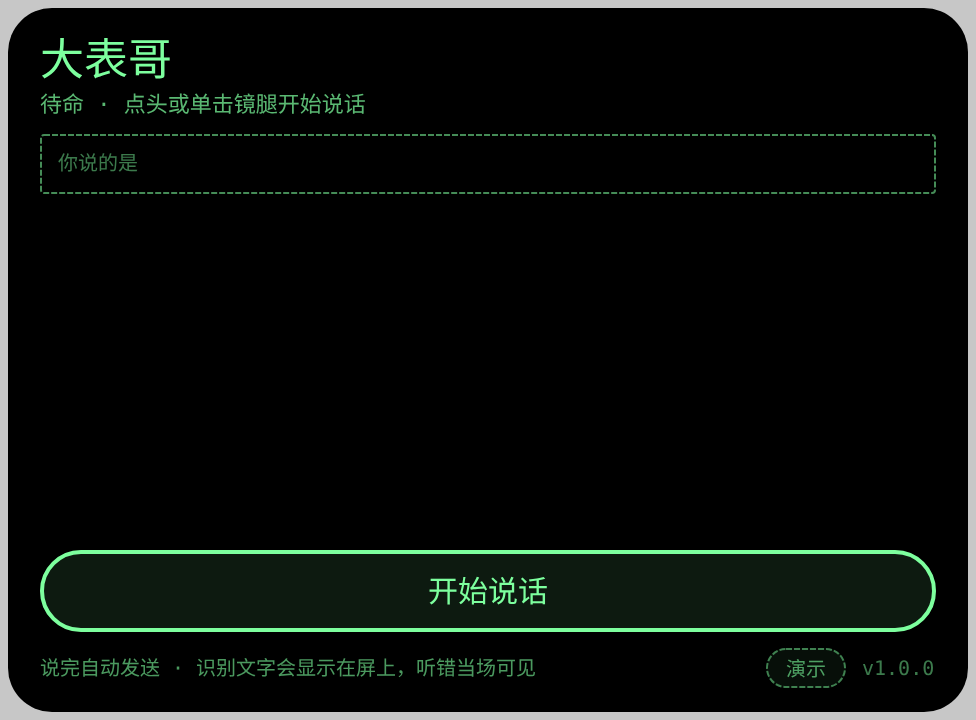
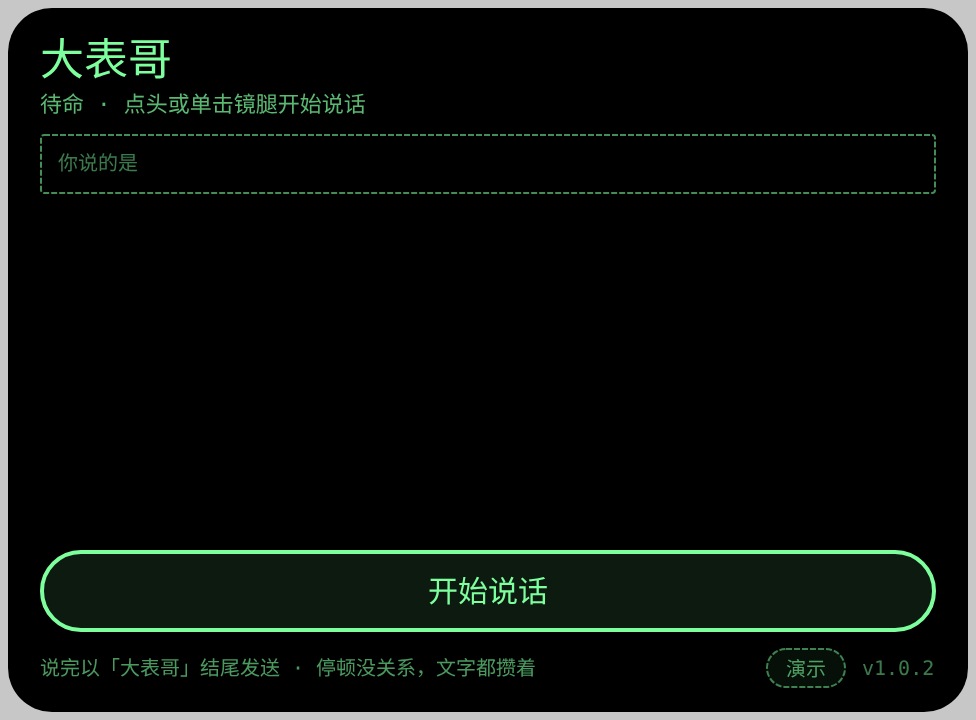
dabiaoge v1.0.2：攒字+结束词发送（说完以「大表哥」结尾，停顿不截断，单击立即发送）+ 等待上限 150→300 秒（配合哨兵延迟调优）

Changed region(s): [[0.0922, 0.9167, 0.5533, 0.9472]]

diff --git a/base/dabiaoge/README.md b/base/dabiaoge/README.md
@@ -33,12 +33,12 @@ https://github.com/sakai55/rokid/tree/agent-dabiaoge
 | 项目 | 值 |
 |---|---|
 | Agent Name（Studio） | 待导入后回填（导入名默认为仓库名，Studio 内改「大表哥」） |
-| Version（Build） | 待回填（本地 package.json 1.0.0） |
+| Version（Build） | 待回填（本地 package.json 1.0.2） |
 | App Category | 待回填（建议 Work） |
 | Intent Description | 待回填 |
 | Agent ID | 待回填 |
 | AIX Package Size | 约 13 KB（本地 pack；Studio 打包值待回填） |
-| 状态 | 本地已打包 · 待 GO 在 Studio 导入、填钥匙并真机运行 |
+| 状态 | v1.0.0 已真机全链跑通（2026-10-26）；v1.0.2 待 GO 在 Studio 重新导入、填钥匙并打包 |
 | Studio | aiui-global.rokid.com（en-US） |
 | 下发方式 | 云端下发 → Hi Rokid（海外版）更新眼镜资源包 |
 
@@ -46,9 +46,9 @@ https://github.com/sakai55/rokid/tree/agent-dabiaoge
 
 | 步 | 发生什么 |
 |---|---|
-| 说话 | 点头 / 单击开始 → 宿主 ASR 识别，文字实时上屏 → 最终文字自动投单 |
+| 说话 | 点头 / 单击开始 → 宿主 ASR 识别，文字分段攒起来实时上屏（停顿不截断）→ 以「大表哥」结尾、或单击立即发送，结束词剥掉不进正文 |
 | 投单 | POST 前门 `/submit`（`{session, kind:"ask", text}`，session 本地持久化） |
-| 等待 | 每 4 秒查一次单，总超时 150 秒；状态行显示已排队 / Muse 正在处理 |
+| 等待 | 每 4 秒查一次单，总超时 300 秒（v1.0.2 起，原 150 秒）；状态行显示已排队 / Muse 正在处理 |
 | 结果 | 信封按 type 渲染：text（标题+正文）、list（+逐行条目）、choices（只展示）、card（标题+正文）；speak 与正文不同时朗读 speak |
 | 批准 | 回单 needs-approval 时显示「这件事要你在手机上批准，已挂起」，眼镜侧对话当场结束，批准在 Muse App 里做 |
 | 补收 | ticket 存本地；关掉眼镜不丢单，下次打开先查未完成单，办完的直接显示 |
@@ -57,7 +57,7 @@ https://github.com/sakai55/rokid/tree/agent-dabiaoge
 
 | 手势 | 键事件 | 作用 |
 |---|---|---|
-| 单击 | Enter / GlobalHook | 开始说话；说话中单击 = 说完了；结果页单击 = 再问一句（400ms 去重） |
+| 单击 | Enter / GlobalHook | 开始说话；说话中单击 = 立即发送已攒文字；结果页单击 = 再问一句（400ms 去重） |
 | 点头 | onHeadGesture 'nod' | 与单击同效；处理中忽略 |
 | 滑动 | ArrowUp / ArrowDown | 本页未占用 |
 | 双击 | Backspace | 交给系统：返回 / 退出（页面不拦截） |
@@ -81,11 +81,12 @@ https://github.com/sakai55/rokid/tree/agent-dabiaoge
 
 - [ ] **真机网络链**：填钥匙打包并下发后，眼镜上说一句提问，Muse 侧 `/feed` 立刻出现该单（眼镜 → 手机代理 → 前门全链通）
 - [ ] **ASR 文字显示**：识别文字实时出现在「你说的是」框里，听错可见
+- [ ] **结束词发送**（v1.0.2 新增）：说话中途停顿多次不截断、不投单；最后说「大表哥」才投单且正文不含结束词；只说「大表哥」时不投单并提示先说事；说话中单击可立即发送已攒文字
 - [ ] **信封四态显示**：text / list / choices / card 四种回单各显示一次，版式正确不溢出
 - [ ] **speak 朗读**：speak 与 body 不同时朗读 speak；两者相同时不重复念正文
 - [ ] **needs-approval 提示**：2 级单回来时显示「这件事要你在手机上批准，已挂起」
 - [ ] **关后再开补收**：处理中退出大表哥，单子办完后重开，自动显示结果
-- [ ] **超时表现**：断网或 150 秒无回时显示超时文案，单子不丢、下次打开续收
+- [ ] **超时表现**：断网或 300 秒无回时显示超时文案，单子不丢、下次打开续收
 - [ ] **钥匙未填**：占位符状态打包打开时显示「钥匙未填」提示，不崩溃
 
 ## 提审资料 (Review Submission)
@@ -96,7 +97,7 @@ https://github.com/sakai55/rokid/tree/agent-dabiaoge
 
 ### Opening Message
 
-你好，我是大表哥。点头或单击镜腿，把问题说给我听——我先把听到的文字显示在屏上，再送给 Muse 处理；答案回来后，屏上显示、摘要朗读给你。
+你好，我是大表哥。点头或单击镜腿，把问题说给我听，说完最后加一句「大表哥」——我把听到的文字攒着显示在屏上，听到结束词再送给 Muse 处理；答案回来后，屏上显示、摘要朗读给你。
 
 ### Preview Media
 
@@ -104,6 +105,12 @@ https://github.com/sakai55/rokid/tree/agent-dabiaoge
 - 视频：真机阶段补录（核心流程：说话提问 → 等待 → 结果显示与朗读，≤60 秒）
 
 ### Change Log
+
+#### v1.0.2
+
+- Features added：结束词发送机制——识别文字先分段攒着上屏（宿主按停顿分段也不截断），攒到的文字以「大表哥」结尾时剥掉结束词投单；说话中单击 / 点头 = 立即发送已攒文字；只说结束词不投单并提示先说事；攒满 500 字自动发送
+- Improvements：识别在宿主每次停顿收尾后自动续听，直到发送为止；说话中按钮文案改「发送」；待命与聆听提示写明结束词用法；等待上限 150 → 300 秒（配合哨兵侧延迟调优：退避封顶 60 秒 + 对话保温窗）
+- Fixes：修复 v1.0.0「话没说完、稍一停顿就被宿主收尾、半句话被投单」（GO 真机反馈）
 
 #### v1.0.0
 

diff --git a/base/dabiaoge/AGENTS.md b/base/dabiaoge/AGENTS.md
@@ -10,7 +10,7 @@ rokidpost 通道的眼镜侧薄客户端（AIUI Agent）。眼镜只负责三件
 
 过通道的永远是文字，没有录音离开眼镜：
 
-1. **说话**：点头（`onHeadGesture 'nod'`）或单击镜腿（Enter / GlobalHook，400ms 去重）开始；宿主 `SpeechRecognition` 识别，**识别文字实时显示在「你说的是」框里**（听错当场可见），最终结果一出自动投单。
+1. **说话**：点头（`onHeadGesture 'nod'`）或单击镜腿（Enter / GlobalHook，400ms 去重）开始；宿主 `SpeechRecognition` 识别，**识别文字分段攒起来实时显示在「你说的是」框里**（听错当场可见，停顿不截断）；攒到的文字以结束词「大表哥」结尾时剥掉结束词投单，单击/点头也可立即发送已攒文字。宿主 ASR 按自身停顿规则分段收尾（其停顿判定应用改不了），每段结束后自动续听；连续 6 次续听无新段则回待命；只说了结束词不投单并提示先说事；攒满 500 字自动发送。
 2. **投单**：`POST https://rokidp.datumoj.com/submit`，header `x-channel-key` 带钥匙，正文 `{session, kind:"ask", text}`。session id 首次随机生成、`localStorage` 持久化。
 3. **等单**：每 4 秒 `GET /ticket/<id>` 查一次，总超时 150 秒；按 status 显示进度（queued=已排队 / working=Muse 正在处理）。ticket id 存 `localStorage`。
 4. **回单渲染**：done 后按信封渲染——text 显示 title+body；list 显示 title+body+items 逐行；choices 只展示选项（v1 不回传）；card 按 title+body 显示。speak 非空且与 body 不同才 TTS 朗读（相同不重复念）。
@@ -25,8 +25,8 @@ rokidpost 通道的眼镜侧薄客户端（AIUI Agent）。眼镜只负责三件
 
 ## 操作（镜腿手势优先）
 
-- 界面只有一个主按钮（胶囊形，随状态变文案：开始说话 / 说完了 / 处理中… / 再问一句），同时保留 bindtap 供模拟器点按。
-- 点头 = 与单击同效（开始说话 / 结束说话 / 再问一句），处理中点头忽略。
+- 界面只有一个主按钮（胶囊形，随状态变文案：开始说话 / 发送 / 处理中… / 再问一句），同时保留 bindtap 供模拟器点按。
+- 点头 = 与单击同效（开始说话 / 立即发送已攒文字 / 再问一句），处理中点头忽略。
 - 滑动未占用；双击（Backspace）交给系统（返回/退出），页面不拦截。
 - 页脚「演示」小钮循环切换示例三态（处理中 / 列表结果 / 文字结果 → 回待命），供预览截图与真机对照版式；示例数据在屏上标注「演示状态」，演示路径永不投单。
 
